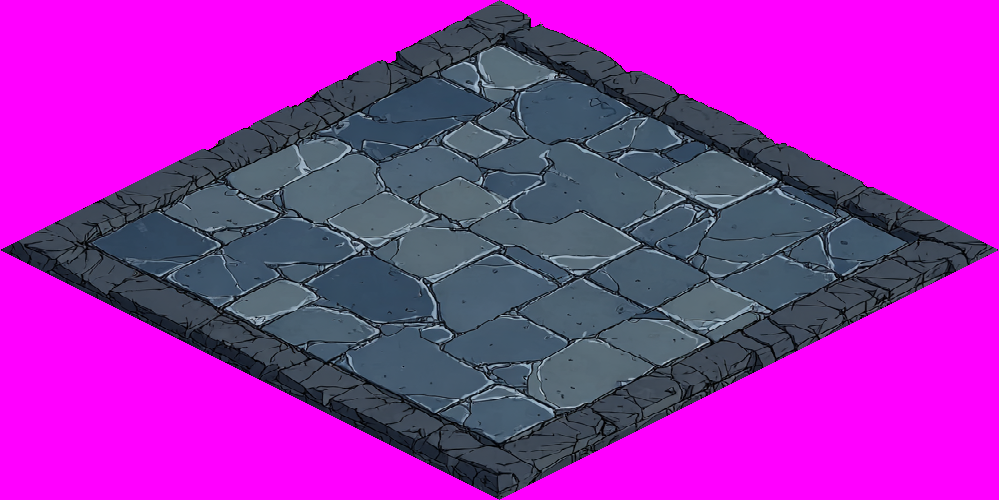
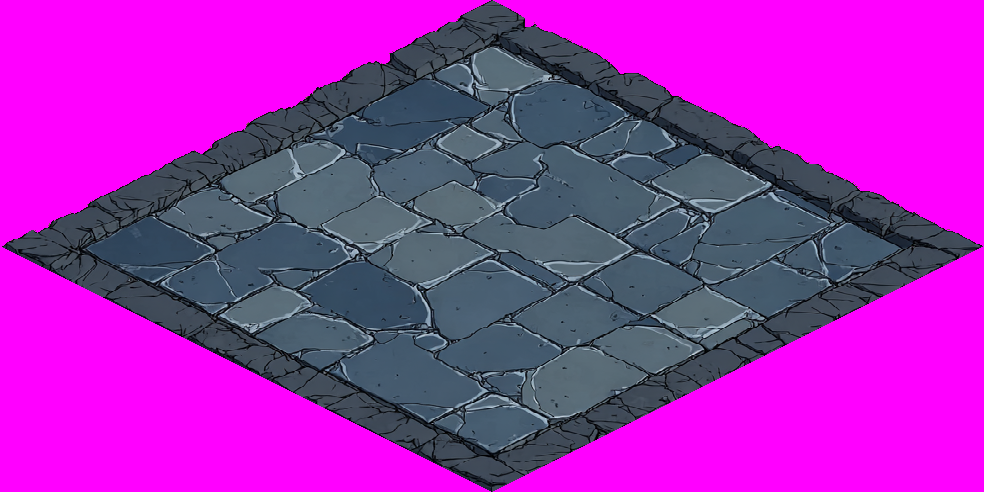
fix: progress

Changed region(s): [[0.0, 0.0305, 1.0, 1.0], [0.7012, 0.2134, 0.7317, 0.2439]]

diff --git a/assets/prompts/midjourney.md b/assets/prompts/midjourney.md
@@ -58,7 +58,9 @@ the settings won, not the prompt.
 1. **The style anchor already exists** — [`anchor.png`](anchor.png), generated
    from the prompt below and upscaled. Every later prompt carries it as
    `--sref https://cdn.midjourney.com/61968eae-6b14-46db-a1e5-525574866bf0/0_0.png`
-   at `--sw 30`, so there is nothing to substitute.
+   at full strength, so there is nothing to substitute. Resist lowering `--sw`:
+   at 30 the geometry improves and the art stops looking like the anchor, which
+   is the wrong trade now that the extractor handles geometry.
 2. Generate tiles, then blocks, then props, then characters. One asset per job.
 3. Name each download per the tables below and drop it in `assets/source/`.
 4. Run the importer. Screenshot with `tools/shot.sh` and check the result in
@@ -120,15 +122,15 @@ sitting at the wrong isometric angle; the extractor fixes both.
 | `floor_stairs.png` | spiral stair opening | 9 |
 
 ```
-On a flat solid uniform bright magenta chroma-key background, evenly lit with no shadow anywhere: a single isometric game floor tile of worn grey flagstone marked with faint chalk ward lines, drawn as the flat top face only with no thickness and no side walls, shaped as a 2:1 dimetric diamond exactly twice as wide as it is tall, seen from a fixed 45 degree overhead game camera, tileable, the diamond touching all four edges of the frame --ar 2:1 --style raw --s 50 --c 0 --sw 30 --no shadow, gradient, vignette, objects, text, watermark, frame, border, perspective distortion --v 7 --sref https://cdn.midjourney.com/61968eae-6b14-46db-a1e5-525574866bf0/0_0.png
-On a flat solid uniform bright magenta chroma-key background, evenly lit with no shadow anywhere: a single isometric game floor tile of dark polished oak lecture-hall floorboards, drawn as the flat top face only with no thickness and no side walls, shaped as a 2:1 dimetric diamond exactly twice as wide as it is tall, seen from a fixed 45 degree overhead game camera, tileable, the diamond touching all four edges of the frame --ar 2:1 --style raw --s 50 --c 0 --sw 30 --no shadow, gradient, vignette, objects, text, watermark, frame, border, perspective distortion --v 7 --sref https://cdn.midjourney.com/61968eae-6b14-46db-a1e5-525574866bf0/0_0.png
-On a flat solid uniform bright magenta chroma-key background, evenly lit with no shadow anywhere: a single isometric game floor tile of stained slate laboratory flooring with faint acid burns and a narrow drainage channel, drawn as the flat top face only with no thickness and no side walls, shaped as a 2:1 dimetric diamond exactly twice as wide as it is tall, seen from a fixed 45 degree overhead game camera, tileable, the diamond touching all four edges of the frame --ar 2:1 --style raw --s 50 --c 0 --sw 30 --no shadow, gradient, vignette, objects, text, watermark, frame, border, perspective distortion --v 7 --sref https://cdn.midjourney.com/61968eae-6b14-46db-a1e5-525574866bf0/0_0.png
-On a flat solid uniform bright magenta chroma-key background, evenly lit with no shadow anywhere: a single isometric game floor tile of deep red patterned scriptorium carpet with a gold thread border, drawn as the flat top face only with no thickness and no side walls, shaped as a 2:1 dimetric diamond exactly twice as wide as it is tall, seen from a fixed 45 degree overhead game camera, tileable, the diamond touching all four edges of the frame --ar 2:1 --style raw --s 50 --c 0 --sw 30 --no shadow, gradient, vignette, objects, text, watermark, frame, border, perspective distortion --v 7 --sref https://cdn.midjourney.com/61968eae-6b14-46db-a1e5-525574866bf0/0_0.png
-On a flat solid uniform bright magenta chroma-key background, evenly lit with no shadow anywhere: a single isometric game floor tile of scrubbed pale refectory stone with faint spill stains, drawn as the flat top face only with no thickness and no side walls, shaped as a 2:1 dimetric diamond exactly twice as wide as it is tall, seen from a fixed 45 degree overhead game camera, tileable, the diamond touching all four edges of the frame --ar 2:1 --style raw --s 50 --c 0 --sw 30 --no shadow, gradient, vignette, objects, text, watermark, frame, border, perspective distortion --v 7 --sref https://cdn.midjourney.com/61968eae-6b14-46db-a1e5-525574866bf0/0_0.png
-On a flat solid uniform bright magenta chroma-key background, evenly lit with no shadow anywhere: a single isometric game floor tile of packed sand and dirt from a training yard with a painted practice circle, drawn as the flat top face only with no thickness and no side walls, shaped as a 2:1 dimetric diamond exactly twice as wide as it is tall, seen from a fixed 45 degree overhead game camera, tileable, the diamond touching all four edges of the frame --ar 2:1 --style raw --s 50 --c 0 --sw 30 --no shadow, gradient, vignette, objects, text, watermark, frame, border, perspective distortion --v 7 --sref https://cdn.midjourney.com/61968eae-6b14-46db-a1e5-525574866bf0/0_0.png
-On a flat solid uniform bright magenta chroma-key background, evenly lit with no shadow anywhere: a single isometric game floor tile of cold grey granite inlaid with a brass strip, drawn as the flat top face only with no thickness and no side walls, shaped as a 2:1 dimetric diamond exactly twice as wide as it is tall, seen from a fixed 45 degree overhead game camera, tileable, the diamond touching all four edges of the frame --ar 2:1 --style raw --s 50 --c 0 --sw 30 --no shadow, gradient, vignette, objects, text, watermark, frame, border, perspective distortion --v 7 --sref https://cdn.midjourney.com/61968eae-6b14-46db-a1e5-525574866bf0/0_0.png
-On a flat solid uniform bright magenta chroma-key background, evenly lit with no shadow anywhere: a single isometric game floor tile of dark green study carpet worn pale along one path, drawn as the flat top face only with no thickness and no side walls, shaped as a 2:1 dimetric diamond exactly twice as wide as it is tall, seen from a fixed 45 degree overhead game camera, tileable, the diamond touching all four edges of the frame --ar 2:1 --style raw --s 50 --c 0 --sw 30 --no shadow, gradient, vignette, objects, text, watermark, frame, border, perspective distortion --v 7 --sref https://cdn.midjourney.com/61968eae-6b14-46db-a1e5-525574866bf0/0_0.png
-On a flat solid uniform bright magenta chroma-key background, evenly lit with no shadow anywhere: a single isometric game floor tile containing the opening of a descending spiral stone stair, blue arcane light glowing up from below, drawn as the flat top face only with no thickness and no side walls, shaped as a 2:1 dimetric diamond exactly twice as wide as it is tall, seen from a fixed 45 degree overhead game camera, the diamond touching all four edges of the frame --ar 2:1 --style raw --s 50 --c 0 --sw 30 --no shadow, gradient, vignette, text, watermark, frame, border, perspective distortion --v 7 --sref https://cdn.midjourney.com/61968eae-6b14-46db-a1e5-525574866bf0/0_0.png
+On a flat solid uniform bright magenta chroma-key background, evenly lit with no shadow anywhere: a single isometric game floor tile of worn grey flagstone marked with faint chalk ward lines, shaped as a 2:1 dimetric diamond exactly twice as wide as it is tall, seen from a fixed 45 degree overhead game camera, tileable, the diamond touching all four edges of the frame --ar 2:1 --style raw --s 50 --c 0 --no shadow, gradient, vignette, objects, text, watermark, frame, border, perspective distortion --v 7 --sref https://cdn.midjourney.com/61968eae-6b14-46db-a1e5-525574866bf0/0_0.png
+On a flat solid uniform bright magenta chroma-key background, evenly lit with no shadow anywhere: a single isometric game floor tile of dark polished oak lecture-hall floorboards, shaped as a 2:1 dimetric diamond exactly twice as wide as it is tall, seen from a fixed 45 degree overhead game camera, tileable, the diamond touching all four edges of the frame --ar 2:1 --style raw --s 50 --c 0 --no shadow, gradient, vignette, objects, text, watermark, frame, border, perspective distortion --v 7 --sref https://cdn.midjourney.com/61968eae-6b14-46db-a1e5-525574866bf0/0_0.png
+On a flat solid uniform bright magenta chroma-key background, evenly lit with no shadow anywhere: a single isometric game floor tile of stained slate laboratory flooring with faint acid burns and a narrow drainage channel, shaped as a 2:1 dimetric diamond exactly twice as wide as it is tall, seen from a fixed 45 degree overhead game camera, tileable, the diamond touching all four edges of the frame --ar 2:1 --style raw --s 50 --c 0 --no shadow, gradient, vignette, objects, text, watermark, frame, border, perspective distortion --v 7 --sref https://cdn.midjourney.com/61968eae-6b14-46db-a1e5-525574866bf0/0_0.png
+On a flat solid uniform bright magenta chroma-key background, evenly lit with no shadow anywhere: a single isometric game floor tile of deep red patterned scriptorium carpet with a gold thread border, shaped as a 2:1 dimetric diamond exactly twice as wide as it is tall, seen from a fixed 45 degree overhead game camera, tileable, the diamond touching all four edges of the frame --ar 2:1 --style raw --s 50 --c 0 --no shadow, gradient, vignette, objects, text, watermark, frame, border, perspective distortion --v 7 --sref https://cdn.midjourney.com/61968eae-6b14-46db-a1e5-525574866bf0/0_0.png
+On a flat solid uniform bright magenta chroma-key background, evenly lit with no shadow anywhere: a single isometric game floor tile of scrubbed pale refectory stone with faint spill stains, shaped as a 2:1 dimetric diamond exactly twice as wide as it is tall, seen from a fixed 45 degree overhead game camera, tileable, the diamond touching all four edges of the frame --ar 2:1 --style raw --s 50 --c 0 --no shadow, gradient, vignette, objects, text, watermark, frame, border, perspective distortion --v 7 --sref https://cdn.midjourney.com/61968eae-6b14-46db-a1e5-525574866bf0/0_0.png
+On a flat solid uniform bright magenta chroma-key background, evenly lit with no shadow anywhere: a single isometric game floor tile of packed sand and dirt from a training yard with a painted practice circle, shaped as a 2:1 dimetric diamond exactly twice as wide as it is tall, seen from a fixed 45 degree overhead game camera, tileable, the diamond touching all four edges of the frame --ar 2:1 --style raw --s 50 --c 0 --no shadow, gradient, vignette, objects, text, watermark, frame, border, perspective distortion --v 7 --sref https://cdn.midjourney.com/61968eae-6b14-46db-a1e5-525574866bf0/0_0.png
+On a flat solid uniform bright magenta chroma-key background, evenly lit with no shadow anywhere: a single isometric game floor tile of cold grey granite inlaid with a brass strip, shaped as a 2:1 dimetric diamond exactly twice as wide as it is tall, seen from a fixed 45 degree overhead game camera, tileable, the diamond touching all four edges of the frame --ar 2:1 --style raw --s 50 --c 0 --no shadow, gradient, vignette, objects, text, watermark, frame, border, perspective distortion --v 7 --sref https://cdn.midjourney.com/61968eae-6b14-46db-a1e5-525574866bf0/0_0.png
+On a flat solid uniform bright magenta chroma-key background, evenly lit with no shadow anywhere: a single isometric game floor tile of dark green study carpet worn pale along one path, shaped as a 2:1 dimetric diamond exactly twice as wide as it is tall, seen from a fixed 45 degree overhead game camera, tileable, the diamond touching all four edges of the frame --ar 2:1 --style raw --s 50 --c 0 --no shadow, gradient, vignette, objects, text, watermark, frame, border, perspective distortion --v 7 --sref https://cdn.midjourney.com/61968eae-6b14-46db-a1e5-525574866bf0/0_0.png
+On a flat solid uniform bright magenta chroma-key background, evenly lit with no shadow anywhere: a single isometric game floor tile containing the opening of a descending spiral stone stair, blue arcane light glowing up from below, shaped as a 2:1 dimetric diamond exactly twice as wide as it is tall, seen from a fixed 45 degree overhead game camera, the diamond touching all four edges of the frame --ar 2:1 --style raw --s 50 --c 0 --no shadow, gradient, vignette, text, watermark, frame, border, perspective distortion --v 7 --sref https://cdn.midjourney.com/61968eae-6b14-46db-a1e5-525574866bf0/0_0.png
 ```
 
 ## Wall and door blocks — `assets/source/tiles/`
@@ -149,9 +151,9 @@ against a floor tile before accepting it.
 | `block_door_open.png` | open doorway | 3 |
 
 ```
-On a flat solid uniform bright magenta chroma-key background, evenly lit with no shadow anywhere: an isometric stone academy wall block drawn as a 2:1 dimetric cube, carved granite with mortar lines, its top face visible and its base sitting on a 2:1 diamond footprint twice as wide as tall, seen from a fixed 45 degree game camera, the block touching the edges of the frame --ar 1:1 --style raw --s 50 --c 0 --sw 30 --no shadow, gradient, vignette, ground, floor, text, watermark, frame, border --v 7 --sref https://cdn.midjourney.com/61968eae-6b14-46db-a1e5-525574866bf0/0_0.png
-On a flat solid uniform bright magenta chroma-key background, evenly lit with no shadow anywhere: an isometric closed arched oak door with iron banding set in a carved stone frame, drawn as a 2:1 dimetric cube whose base sits on a 2:1 diamond footprint twice as wide as tall, seen from a fixed 45 degree game camera, touching the edges of the frame --ar 1:1 --style raw --s 50 --c 0 --sw 30 --no shadow, gradient, vignette, ground, floor, text, watermark, frame, border --v 7 --sref https://cdn.midjourney.com/61968eae-6b14-46db-a1e5-525574866bf0/0_0.png
-On a flat solid uniform bright magenta chroma-key background, evenly lit with no shadow anywhere: an isometric open arched stone doorway with the oak door swung inward and a dark passage visible through it, drawn as a 2:1 dimetric cube whose base sits on a 2:1 diamond footprint twice as wide as tall, seen from a fixed 45 degree game camera, touching the edges of the frame --ar 1:1 --style raw --s 50 --c 0 --sw 30 --no shadow, gradient, vignette, ground, floor, text, watermark, frame, border --v 7 --sref https://cdn.midjourney.com/61968eae-6b14-46db-a1e5-525574866bf0/0_0.png
+On a flat solid uniform bright magenta chroma-key background, evenly lit with no shadow anywhere: an isometric stone academy wall block drawn as a 2:1 dimetric cube, carved granite with mortar lines, its top face visible and its base sitting on a 2:1 diamond footprint twice as wide as tall, seen from a fixed 45 degree game camera, the block touching the edges of the frame --ar 1:1 --style raw --s 50 --c 0 --no shadow, gradient, vignette, ground, floor, text, watermark, frame, border --v 7 --sref https://cdn.midjourney.com/61968eae-6b14-46db-a1e5-525574866bf0/0_0.png
+On a flat solid uniform bright magenta chroma-key background, evenly lit with no shadow anywhere: an isometric closed arched oak door with iron banding set in a carved stone frame, drawn as a 2:1 dimetric cube whose base sits on a 2:1 diamond footprint twice as wide as tall, seen from a fixed 45 degree game camera, touching the edges of the frame --ar 1:1 --style raw --s 50 --c 0 --no shadow, gradient, vignette, ground, floor, text, watermark, frame, border --v 7 --sref https://cdn.midjourney.com/61968eae-6b14-46db-a1e5-525574866bf0/0_0.png
+On a flat solid uniform bright magenta chroma-key background, evenly lit with no shadow anywhere: an isometric open arched stone doorway with the oak door swung inward and a dark passage visible through it, drawn as a 2:1 dimetric cube whose base sits on a 2:1 diamond footprint twice as wide as tall, seen from a fixed 45 degree game camera, touching the edges of the frame --ar 1:1 --style raw --s 50 --c 0 --no shadow, gradient, vignette, ground, floor, text, watermark, frame, border --v 7 --sref https://cdn.midjourney.com/61968eae-6b14-46db-a1e5-525574866bf0/0_0.png
 ```
 
 ## Props — `assets/source/props/`
@@ -181,14 +183,14 @@ cross-image scale.
 | `bookshelf.png` | grimoire bookshelf | 8 |
 
 ```
-On a flat solid uniform bright magenta chroma-key background, evenly lit with no shadow anywhere: a plain wooden writing desk of an arcane academy, a single object drawn as isometric 2:1 dimetric game art from a fixed 45 degree camera, proportioned so a 1.7m person standing beside it would be 48 pixels tall, simple shapes and a strong silhouette that stays readable when shrunk to 30 pixels, alone in the frame with nothing else in it --ar 1:1 --style raw --s 50 --c 0 --sw 30 --no shadow, gradient, vignette, floor, ground, room, other furniture, text, watermark, frame, border --v 7 --sref https://cdn.midjourney.com/61968eae-6b14-46db-a1e5-525574866bf0/0_0.png
-On a flat solid uniform bright magenta chroma-key background, evenly lit with no shadow anywhere: a simple wooden stool of an arcane academy, a single object drawn as isometric 2:1 dimetric game art from a fixed 45 degree camera, proportioned so a 1.7m person standing beside it would be 48 pixels tall, simple shapes and a strong silhouette that stays readable when shrunk to 26 pixels, alone in the frame with nothing else in it --ar 1:1 --style raw --s 50 --c 0 --sw 30 --no shadow, gradient, vignette, floor, ground, room, other furniture, text, watermark, frame, border --v 7 --sref https://cdn.midjourney.com/61968eae-6b14-46db-a1e5-525574866bf0/0_0.png
-On a flat solid uniform bright magenta chroma-key background, evenly lit with no shadow anywhere: a lit iron brazier on a tripod, its coals glowing warm against the surrounding cool light, a single object drawn as isometric 2:1 dimetric game art from a fixed 45 degree camera, proportioned so a 1.7m person standing beside it would be 48 pixels tall, simple shapes and a strong silhouette that stays readable when shrunk to 40 pixels, alone in the frame with nothing else in it --ar 1:1 --style raw --s 50 --c 0 --sw 30 --no shadow, gradient, vignette, floor, ground, room, other furniture, text, watermark, frame, border --v 7 --sref https://cdn.midjourney.com/61968eae-6b14-46db-a1e5-525574866bf0/0_0.png
-On a flat solid uniform bright magenta chroma-key background, evenly lit with no shadow anywhere: a carved wooden reading podium with an open book resting on it, a single object drawn as isometric 2:1 dimetric game art from a fixed 45 degree camera, proportioned so a 1.7m person standing beside it would be 48 pixels tall, simple shapes and a strong silhouette that stays readable when shrunk to 34 pixels, alone in the frame with nothing else in it --ar 1:1 --style raw --s 50 --c 0 --sw 30 --no shadow, gradient, vignette, floor, ground, room, other furniture, text, watermark, frame, border --v 7 --sref https://cdn.midjourney.com/61968eae-6b14-46db-a1e5-525574866bf0/0_0.png
-On a flat solid uniform bright magenta chroma-key background, evenly lit with no shadow anywhere: a dark slate lecture board on a stand, its surface covered in glowing blue runes, a single object drawn as isometric 2:1 dimetric game art from a fixed 45 degree camera, proportioned so a 1.7m person standing beside it would be 48 pixels tall, simple shapes and a strong silhouette that stays readable when shrunk to 48 pixels, alone in the frame with nothing else in it --ar 1:1 --style raw --s 50 --c 0 --sw 30 --no shadow, gradient, vignette, floor, ground, room, other furniture, legible writing, text, watermark, frame, border --v 7 --sref https://cdn.midjourney.com/61968eae-6b14-46db-a1e5-525574866bf0/0_0.png
-On a flat solid uniform bright magenta chroma-key background, evenly lit with no shadow anywhere: a closed warded oak reliquary chest bound in iron with a glowing arcane seal across the lid, a single object drawn as isometric 2:1 dimetric game art from a fixed 45 degree camera, proportioned so a 1.7m person standing beside it would be 48 pixels tall, simple shapes and a strong silhouette that stays readable when shrunk to 52 pixels, alone in the frame with nothing else in it --ar 1:1 --style raw --s 50 --c 0 --sw 30 --no shadow, gradient, vignette, floor, ground, room, other furniture, text, watermark, frame, border --v 7 --sref https://cdn.midjourney.com/61968eae-6b14-46db-a1e5-525574866bf0/0_0.png
-On a flat solid uniform bright magenta chroma-key background, evenly lit with no shadow anywhere: the same warded oak reliquary chest bound in iron, now standing open and empty with its arcane seal dark and broken, a single object drawn as isometric 2:1 dimetric game art from a fixed 45 degree camera, proportioned so a 1.7m person standing beside it would be 48 pixels tall, simple shapes and a strong silhouette that stays readable when shrunk to 52 pixels, alone in the frame with nothing else in it --ar 1:1 --style raw --s 50 --c 0 --sw 30 --no shadow, gradient, vignette, floor, ground, room, other furniture, text, watermark, frame, border --v 7 --sref https://cdn.midjourney.com/61968eae-6b14-46db-a1e5-525574866bf0/0_0.png
-On a flat solid uniform bright magenta chroma-key background, evenly lit with no shadow anywhere: a tall bookshelf crammed with grimoires and rolled scrolls, a single object drawn as isometric 2:1 dimetric game art from a fixed 45 degree camera, proportioned so a 1.7m person standing beside it would be 48 pixels tall, simple shapes and a strong silhouette that stays readable when shrunk to 62 pixels, alone in the frame with nothing else in it --ar 1:1 --style raw --s 50 --c 0 --sw 30 --no shadow, gradient, vignette, floor, ground, room, other furniture, text, watermark, frame, border --v 7 --sref https://cdn.midjourney.com/61968eae-6b14-46db-a1e5-525574866bf0/0_0.png
+On a flat solid uniform bright magenta chroma-key background, evenly lit with no shadow anywhere: a plain wooden writing desk of an arcane academy, a single object drawn as isometric 2:1 dimetric game art from a fixed 45 degree camera, proportioned so a 1.7m person standing beside it would be 48 pixels tall, simple shapes and a strong silhouette that stays readable when shrunk to 30 pixels, alone in the frame with nothing else in it --ar 1:1 --style raw --s 50 --c 0 --no shadow, gradient, vignette, floor, ground, room, other furniture, text, watermark, frame, border --v 7 --sref https://cdn.midjourney.com/61968eae-6b14-46db-a1e5-525574866bf0/0_0.png
+On a flat solid uniform bright magenta chroma-key background, evenly lit with no shadow anywhere: a simple wooden stool of an arcane academy, a single object drawn as isometric 2:1 dimetric game art from a fixed 45 degree camera, proportioned so a 1.7m person standing beside it would be 48 pixels tall, simple shapes and a strong silhouette that stays readable when shrunk to 26 pixels, alone in the frame with nothing else in it --ar 1:1 --style raw --s 50 --c 0 --no shadow, gradient, vignette, floor, ground, room, other furniture, text, watermark, frame, border --v 7 --sref https://cdn.midjourney.com/61968eae-6b14-46db-a1e5-525574866bf0/0_0.png
+On a flat solid uniform bright magenta chroma-key background, evenly lit with no shadow anywhere: a lit iron brazier on a tripod, its coals glowing warm against the surrounding cool light, a single object drawn as isometric 2:1 dimetric game art from a fixed 45 degree camera, proportioned so a 1.7m person standing beside it would be 48 pixels tall, simple shapes and a strong silhouette that stays readable when shrunk to 40 pixels, alone in the frame with nothing else in it --ar 1:1 --style raw --s 50 --c 0 --no shadow, gradient, vignette, floor, ground, room, other furniture, text, watermark, frame, border --v 7 --sref https://cdn.midjourney.com/61968eae-6b14-46db-a1e5-525574866bf0/0_0.png
+On a flat solid uniform bright magenta chroma-key background, evenly lit with no shadow anywhere: a carved wooden reading podium with an open book resting on it, a single object drawn as isometric 2:1 dimetric game art from a fixed 45 degree camera, proportioned so a 1.7m person standing beside it would be 48 pixels tall, simple shapes and a strong silhouette that stays readable when shrunk to 34 pixels, alone in the frame with nothing else in it --ar 1:1 --style raw --s 50 --c 0 --no shadow, gradient, vignette, floor, ground, room, other furniture, text, watermark, frame, border --v 7 --sref https://cdn.midjourney.com/61968eae-6b14-46db-a1e5-525574866bf0/0_0.png
+On a flat solid uniform bright magenta chroma-key background, evenly lit with no shadow anywhere: a dark slate lecture board on a stand, its surface covered in glowing blue runes, a single object drawn as isometric 2:1 dimetric game art from a fixed 45 degree camera, proportioned so a 1.7m person standing beside it would be 48 pixels tall, simple shapes and a strong silhouette that stays readable when shrunk to 48 pixels, alone in the frame with nothing else in it --ar 1:1 --style raw --s 50 --c 0 --no shadow, gradient, vignette, floor, ground, room, other furniture, legible writing, text, watermark, frame, border --v 7 --sref https://cdn.midjourney.com/61968eae-6b14-46db-a1e5-525574866bf0/0_0.png
+On a flat solid uniform bright magenta chroma-key background, evenly lit with no shadow anywhere: a closed warded oak reliquary chest bound in iron with a glowing arcane seal across the lid, a single object drawn as isometric 2:1 dimetric game art from a fixed 45 degree camera, proportioned so a 1.7m person standing beside it would be 48 pixels tall, simple shapes and a strong silhouette that stays readable when shrunk to 52 pixels, alone in the frame with nothing else in it --ar 1:1 --style raw --s 50 --c 0 --no shadow, gradient, vignette, floor, ground, room, other furniture, text, watermark, frame, border --v 7 --sref https://cdn.midjourney.com/61968eae-6b14-46db-a1e5-525574866bf0/0_0.png
+On a flat solid uniform bright magenta chroma-key background, evenly lit with no shadow anywhere: the same warded oak reliquary chest bound in iron, now standing open and empty with its arcane seal dark and broken, a single object drawn as isometric 2:1 dimetric game art from a fixed 45 degree camera, proportioned so a 1.7m person standing beside it would be 48 pixels tall, simple shapes and a strong silhouette that stays readable when shrunk to 52 pixels, alone in the frame with nothing else in it --ar 1:1 --style raw --s 50 --c 0 --no shadow, gradient, vignette, floor, ground, room, other furniture, text, watermark, frame, border --v 7 --sref https://cdn.midjourney.com/61968eae-6b14-46db-a1e5-525574866bf0/0_0.png
+On a flat solid uniform bright magenta chroma-key background, evenly lit with no shadow anywhere: a tall bookshelf crammed with grimoires and rolled scrolls, a single object drawn as isometric 2:1 dimetric game art from a fixed 45 degree camera, proportioned so a 1.7m person standing beside it would be 48 pixels tall, simple shapes and a strong silhouette that stays readable when shrunk to 62 pixels, alone in the frame with nothing else in it --ar 1:1 --style raw --s 50 --c 0 --no shadow, gradient, vignette, floor, ground, room, other furniture, text, watermark, frame, border --v 7 --sref https://cdn.midjourney.com/61968eae-6b14-46db-a1e5-525574866bf0/0_0.png
 ```
 
 `reliquary_looted.png` is optional; without it a looted chest reuses
@@ -224,18 +226,18 @@ Generate `player.png` first, upscale it, and append `--oref <player image url>
 costs double GPU time and is incompatible with draft mode.)
 
 ```
-On a flat solid uniform bright magenta chroma-key background, evenly lit with no shadow anywhere: a young apprentice in a patched blue-grey robe with a satchel of scrolls and chalk-dusted hands, determined expression, shown full body standing and facing three-quarters toward the viewer, drawn as an isometric game sprite at a 2:1 dimetric camera angle, simple shapes and a strong readable silhouette at 48 pixels tall, alone in the frame with nothing else in it --ar 1:2 --style raw --s 50 --c 0 --sw 30 --no shadow, gradient, vignette, floor, ground, scenery, text, watermark, frame, border --v 7 --sref https://cdn.midjourney.com/61968eae-6b14-46db-a1e5-525574866bf0/0_0.png
-On a flat solid uniform bright magenta chroma-key background, evenly lit with no shadow anywhere: a nervous first-year novice clutching an oversized grimoire, wearing a plain undyed robe, shown full body standing and facing three-quarters toward the viewer, drawn as an isometric game sprite at a 2:1 dimetric camera angle, simple shapes and a strong readable silhouette at 44 pixels tall, alone in the frame with nothing else in it --ar 1:2 --style raw --s 50 --c 0 --sw 30 --no shadow, gradient, vignette, floor, ground, scenery, text, watermark, frame, border --v 7 --sref https://cdn.midjourney.com/61968eae-6b14-46db-a1e5-525574866bf0/0_0.png
-On a flat solid uniform bright magenta chroma-key background, evenly lit with no shadow anywhere: a broad-shouldered battle chanter in reinforced crimson robes with a shield strapped to one arm, shown full body standing and facing three-quarters toward the viewer, drawn as an isometric game sprite at a 2:1 dimetric camera angle, simple shapes and a strong readable silhouette at 50 pixels tall, alone in the frame with nothing else in it --ar 1:2 --style raw --s 50 --c 0 --sw 30 --no shadow, gradient, vignette, floor, ground, scenery, text, watermark, frame, border --v 7 --sref https://cdn.midjourney.com/61968eae-6b14-46db-a1e5-525574866bf0/0_0.png
-On a flat solid uniform bright magenta chroma-key background, evenly lit with no shadow anywhere: a thin disputation adept in violet scholar robes with a hovering quill and an open ledger, shown full body standing and facing three-quarters toward the viewer, drawn as an isometric game sprite at a 2:1 dimetric camera angle, simple shapes and a strong readable silhouette at 46 pixels tall, alone in the frame with nothing else in it --ar 1:2 --style raw --s 50 --c 0 --sw 30 --no shadow, gradient, vignette, floor, ground, scenery, text, watermark, frame, border --v 7 --sref https://cdn.midjourney.com/61968eae-6b14-46db-a1e5-525574866bf0/0_0.png
-On a flat solid uniform bright magenta chroma-key background, evenly lit with no shadow anywhere: a theatrical illusionist in teal robes wearing a mirrored mask, a faint duplicate afterimage trailing behind, shown full body standing and facing three-quarters toward the viewer, drawn as an isometric game sprite at a 2:1 dimetric camera angle, simple shapes and a strong readable silhouette at 47 pixels tall, alone in the frame with nothing else in it --ar 1:2 --style raw --s 50 --c 0 --sw 30 --no shadow, gradient, vignette, floor, ground, scenery, text, watermark, frame, border --v 7 --sref https://cdn.midjourney.com/61968eae-6b14-46db-a1e5-525574866bf0/0_0.png
-On a flat solid uniform bright magenta chroma-key background, evenly lit with no shadow anywhere: a corridor proctor in amber uniform robes with a brass badge, carrying a ledger and a spike, shown full body standing and facing three-quarters toward the viewer, drawn as an isometric game sprite at a 2:1 dimetric camera angle, simple shapes and a strong readable silhouette at 50 pixels tall, alone in the frame with nothing else in it --ar 1:2 --style raw --s 50 --c 0 --sw 30 --no shadow, gradient, vignette, floor, ground, scenery, text, watermark, frame, border --v 7 --sref https://cdn.midjourney.com/61968eae-6b14-46db-a1e5-525574866bf0/0_0.png
-On a flat solid uniform bright magenta chroma-key background, evenly lit with no shadow anywhere: a senior warden in ornate orange and gold robes with a warding horn at the belt, shown full body standing and facing three-quarters toward the viewer, drawn as an isometric game sprite at a 2:1 dimetric camera angle, simple shapes and a strong readable silhouette at 52 pixels tall, alone in the frame with nothing else in it --ar 1:2 --style raw --s 50 --c 0 --sw 30 --no shadow, gradient, vignette, floor, ground, scenery, text, watermark, frame, border --v 7 --sref https://cdn.midjourney.com/61968eae-6b14-46db-a1e5-525574866bf0/0_0.png
-On a flat solid uniform bright magenta chroma-key background, evenly lit with no shadow anywhere: a severe visiting lecturer in purple academic robes holding a red quill, shown full body standing and facing three-quarters toward the viewer, drawn as an isometric game sprite at a 2:1 dimetric camera angle, simple shapes and a strong readable silhouette at 50 pixels tall, alone in the frame with nothing else in it --ar 1:2 --style raw --s 50 --c 0 --sw 30 --no shadow, gradient, vignette, floor, ground, scenery, text, watermark, frame, border --v 7 --sref https://cdn.midjourney.com/61968eae-6b14-46db-a1e5-525574866bf0/0_0.png
-On a flat solid uniform bright magenta chroma-key background, evenly lit with no shadow anywhere: an alchemy master in stained deep purple robes with a bandolier of flasks and goggles pushed up on the forehead, shown full body standing and facing three-quarters toward the viewer, drawn as an isometric game sprite at a 2:1 dimetric camera angle, simple shapes and a strong readable silhouette at 52 pixels tall, alone in the frame with nothing else in it --ar 1:2 --style raw --s 50 --c 0 --sw 30 --no shadow, gradient, vignette, floor, ground, scenery, text, watermark, frame, border --v 7 --sref https://cdn.midjourney.com/61968eae-6b14-46db-a1e5-525574866bf0/0_0.png
-On a flat solid uniform bright magenta chroma-key background, evenly lit with no shadow anywhere: a scarred yard drillmaster in dark red training leathers swinging bound stones on a rope, shown full body standing and facing three-quarters toward the viewer, drawn as an isometric game sprite at a 2:1 dimetric camera angle, simple shapes and a strong readable silhouette at 56 pixels tall, alone in the frame with nothing else in it --ar 1:2 --style raw --s 50 --c 0 --sw 30 --no shadow, gradient, vignette, floor, ground, scenery, text, watermark, frame, border --v 7 --sref https://cdn.midjourney.com/61968eae-6b14-46db-a1e5-525574866bf0/0_0.png
-On a flat solid uniform bright magenta chroma-key background, evenly lit with no shadow anywhere: an imposing vice-chancellor in heavy violet ceremonial robes carrying a great ledger, shown full body standing and facing three-quarters toward the viewer, drawn as an isometric game sprite at a 2:1 dimetric camera angle, simple shapes and a strong readable silhouette at 58 pixels tall, alone in the frame with nothing else in it --ar 1:2 --style raw --s 50 --c 0 --sw 30 --no shadow, gradient, vignette, floor, ground, scenery, text, watermark, frame, border --v 7 --sref https://cdn.midjourney.com/61968eae-6b14-46db-a1e5-525574866bf0/0_0.png
-On a flat solid uniform bright magenta chroma-key background, evenly lit with no shadow anywhere: the Rector, a towering figure in deep indigo and gold robes beneath a crown of floating runes, radiating authority, shown full body standing and facing three-quarters toward the viewer, drawn as an isometric game sprite at a 2:1 dimetric camera angle, simple shapes and a strong readable silhouette at 66 pixels tall, alone in the frame with nothing else in it --ar 1:2 --style raw --s 50 --c 0 --sw 30 --no shadow, gradient, vignette, floor, ground, scenery, text, watermark, frame, border --v 7 --sref https://cdn.midjourney.com/61968eae-6b14-46db-a1e5-525574866bf0/0_0.png
+On a flat solid uniform bright magenta chroma-key background, evenly lit with no shadow anywhere: a young apprentice in a patched blue-grey robe with a satchel of scrolls and chalk-dusted hands, determined expression, shown full body standing and facing three-quarters toward the viewer, drawn as an isometric game sprite at a 2:1 dimetric camera angle, simple shapes and a strong readable silhouette at 48 pixels tall, alone in the frame with nothing else in it --ar 1:2 --style raw --s 50 --c 0 --no shadow, gradient, vignette, floor, ground, scenery, text, watermark, frame, border --v 7 --sref https://cdn.midjourney.com/61968eae-6b14-46db-a1e5-525574866bf0/0_0.png
+On a flat solid uniform bright magenta chroma-key background, evenly lit with no shadow anywhere: a nervous first-year novice clutching an oversized grimoire, wearing a plain undyed robe, shown full body standing and facing three-quarters toward the viewer, drawn as an isometric game sprite at a 2:1 dimetric camera angle, simple shapes and a strong readable silhouette at 44 pixels tall, alone in the frame with nothing else in it --ar 1:2 --style raw --s 50 --c 0 --no shadow, gradient, vignette, floor, ground, scenery, text, watermark, frame, border --v 7 --sref https://cdn.midjourney.com/61968eae-6b14-46db-a1e5-525574866bf0/0_0.png
+On a flat solid uniform bright magenta chroma-key background, evenly lit with no shadow anywhere: a broad-shouldered battle chanter in reinforced crimson robes with a shield strapped to one arm, shown full body standing and facing three-quarters toward the viewer, drawn as an isometric game sprite at a 2:1 dimetric camera angle, simple shapes and a strong readable silhouette at 50 pixels tall, alone in the frame with nothing else in it --ar 1:2 --style raw --s 50 --c 0 --no shadow, gradient, vignette, floor, ground, scenery, text, watermark, frame, border --v 7 --sref https://cdn.midjourney.com/61968eae-6b14-46db-a1e5-525574866bf0/0_0.png
+On a flat solid uniform bright magenta chroma-key background, evenly lit with no shadow anywhere: a thin disputation adept in violet scholar robes with a hovering quill and an open ledger, shown full body standing and facing three-quarters toward the viewer, drawn as an isometric game sprite at a 2:1 dimetric camera angle, simple shapes and a strong readable silhouette at 46 pixels tall, alone in the frame with nothing else in it --ar 1:2 --style raw --s 50 --c 0 --no shadow, gradient, vignette, floor, ground, scenery, text, watermark, frame, border --v 7 --sref https://cdn.midjourney.com/61968eae-6b14-46db-a1e5-525574866bf0/0_0.png
+On a flat solid uniform bright magenta chroma-key background, evenly lit with no shadow anywhere: a theatrical illusionist in teal robes wearing a mirrored mask, a faint duplicate afterimage trailing behind, shown full body standing and facing three-quarters toward the viewer, drawn as an isometric game sprite at a 2:1 dimetric camera angle, simple shapes and a strong readable silhouette at 47 pixels tall, alone in the frame with nothing else in it --ar 1:2 --style raw --s 50 --c 0 --no shadow, gradient, vignette, floor, ground, scenery, text, watermark, frame, border --v 7 --sref https://cdn.midjourney.com/61968eae-6b14-46db-a1e5-525574866bf0/0_0.png
+On a flat solid uniform bright magenta chroma-key background, evenly lit with no shadow anywhere: a corridor proctor in amber uniform robes with a brass badge, carrying a ledger and a spike, shown full body standing and facing three-quarters toward the viewer, drawn as an isometric game sprite at a 2:1 dimetric camera angle, simple shapes and a strong readable silhouette at 50 pixels tall, alone in the frame with nothing else in it --ar 1:2 --style raw --s 50 --c 0 --no shadow, gradient, vignette, floor, ground, scenery, text, watermark, frame, border --v 7 --sref https://cdn.midjourney.com/61968eae-6b14-46db-a1e5-525574866bf0/0_0.png
+On a flat solid uniform bright magenta chroma-key background, evenly lit with no shadow anywhere: a senior warden in ornate orange and gold robes with a warding horn at the belt, shown full body standing and facing three-quarters toward the viewer, drawn as an isometric game sprite at a 2:1 dimetric camera angle, simple shapes and a strong readable silhouette at 52 pixels tall, alone in the frame with nothing else in it --ar 1:2 --style raw --s 50 --c 0 --no shadow, gradient, vignette, floor, ground, scenery, text, watermark, frame, border --v 7 --sref https://cdn.midjourney.com/61968eae-6b14-46db-a1e5-525574866bf0/0_0.png
+On a flat solid uniform bright magenta chroma-key background, evenly lit with no shadow anywhere: a severe visiting lecturer in purple academic robes holding a red quill, shown full body standing and facing three-quarters toward the viewer, drawn as an isometric game sprite at a 2:1 dimetric camera angle, simple shapes and a strong readable silhouette at 50 pixels tall, alone in the frame with nothing else in it --ar 1:2 --style raw --s 50 --c 0 --no shadow, gradient, vignette, floor, ground, scenery, text, watermark, frame, border --v 7 --sref https://cdn.midjourney.com/61968eae-6b14-46db-a1e5-525574866bf0/0_0.png
+On a flat solid uniform bright magenta chroma-key background, evenly lit with no shadow anywhere: an alchemy master in stained deep purple robes with a bandolier of flasks and goggles pushed up on the forehead, shown full body standing and facing three-quarters toward the viewer, drawn as an isometric game sprite at a 2:1 dimetric camera angle, simple shapes and a strong readable silhouette at 52 pixels tall, alone in the frame with nothing else in it --ar 1:2 --style raw --s 50 --c 0 --no shadow, gradient, vignette, floor, ground, scenery, text, watermark, frame, border --v 7 --sref https://cdn.midjourney.com/61968eae-6b14-46db-a1e5-525574866bf0/0_0.png
+On a flat solid uniform bright magenta chroma-key background, evenly lit with no shadow anywhere: a scarred yard drillmaster in dark red training leathers swinging bound stones on a rope, shown full body standing and facing three-quarters toward the viewer, drawn as an isometric game sprite at a 2:1 dimetric camera angle, simple shapes and a strong readable silhouette at 56 pixels tall, alone in the frame with nothing else in it --ar 1:2 --style raw --s 50 --c 0 --no shadow, gradient, vignette, floor, ground, scenery, text, watermark, frame, border --v 7 --sref https://cdn.midjourney.com/61968eae-6b14-46db-a1e5-525574866bf0/0_0.png
+On a flat solid uniform bright magenta chroma-key background, evenly lit with no shadow anywhere: an imposing vice-chancellor in heavy violet ceremonial robes carrying a great ledger, shown full body standing and facing three-quarters toward the viewer, drawn as an isometric game sprite at a 2:1 dimetric camera angle, simple shapes and a strong readable silhouette at 58 pixels tall, alone in the frame with nothing else in it --ar 1:2 --style raw --s 50 --c 0 --no shadow, gradient, vignette, floor, ground, scenery, text, watermark, frame, border --v 7 --sref https://cdn.midjourney.com/61968eae-6b14-46db-a1e5-525574866bf0/0_0.png
+On a flat solid uniform bright magenta chroma-key background, evenly lit with no shadow anywhere: the Rector, a towering figure in deep indigo and gold robes beneath a crown of floating runes, radiating authority, shown full body standing and facing three-quarters toward the viewer, drawn as an isometric game sprite at a 2:1 dimetric camera angle, simple shapes and a strong readable silhouette at 66 pixels tall, alone in the frame with nothing else in it --ar 1:2 --style raw --s 50 --c 0 --no shadow, gradient, vignette, floor, ground, scenery, text, watermark, frame, border --v 7 --sref https://cdn.midjourney.com/61968eae-6b14-46db-a1e5-525574866bf0/0_0.png
 ```
 
 ## Running on 8.2 instead of 7
@@ -272,10 +274,10 @@ but run one job to confirm before committing the whole set to 8.2.
   box so the subject sits off-centre. The prompts say `no shadow` twice, in
   prose and in `--no`; if one still appears, regenerate.
 - **The background comes back muddy or tinted.** That is the style reference
-  bleeding into it. Lower `--sw` further (20, then 10). If magenta never
-  returns cleanly, switch the background clause to `a pure chroma key green
-  screen background` — Midjourney renders that far more reliably, since it is a
-  real photographic thing, and the importer samples whatever it gets anyway.
+  bleeding into it, and it does not matter — the importer samples whatever
+  colour it finds. Only act if the background is not *uniform*. Lowering `--sw`
+  does restore true magenta, but it also drains the anchor out of the art; that
+  is what turned a hand-painted flagstone tile into a flat grey slab.
 - **Wrong projection.** Say it harder and earlier: `flat 2:1 dimetric
   projection, twice as wide as tall, NOT 30 degree true isometric` near the
   front of the prompt, where terms carry more weight.
